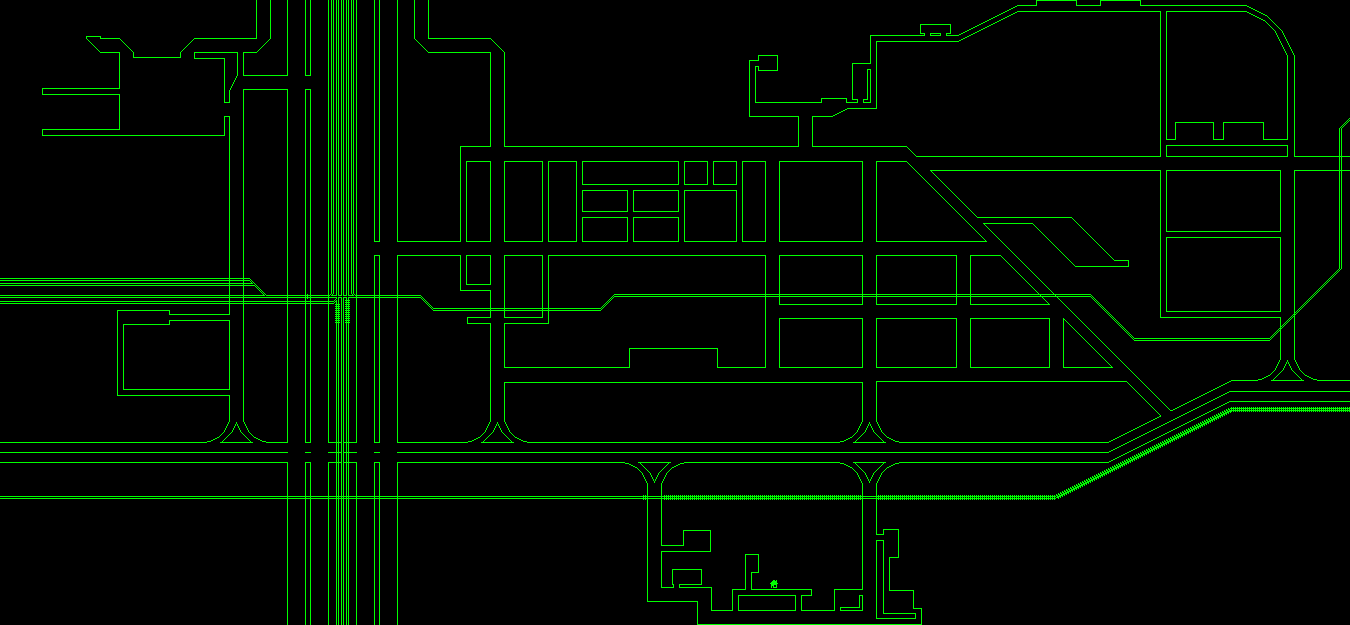
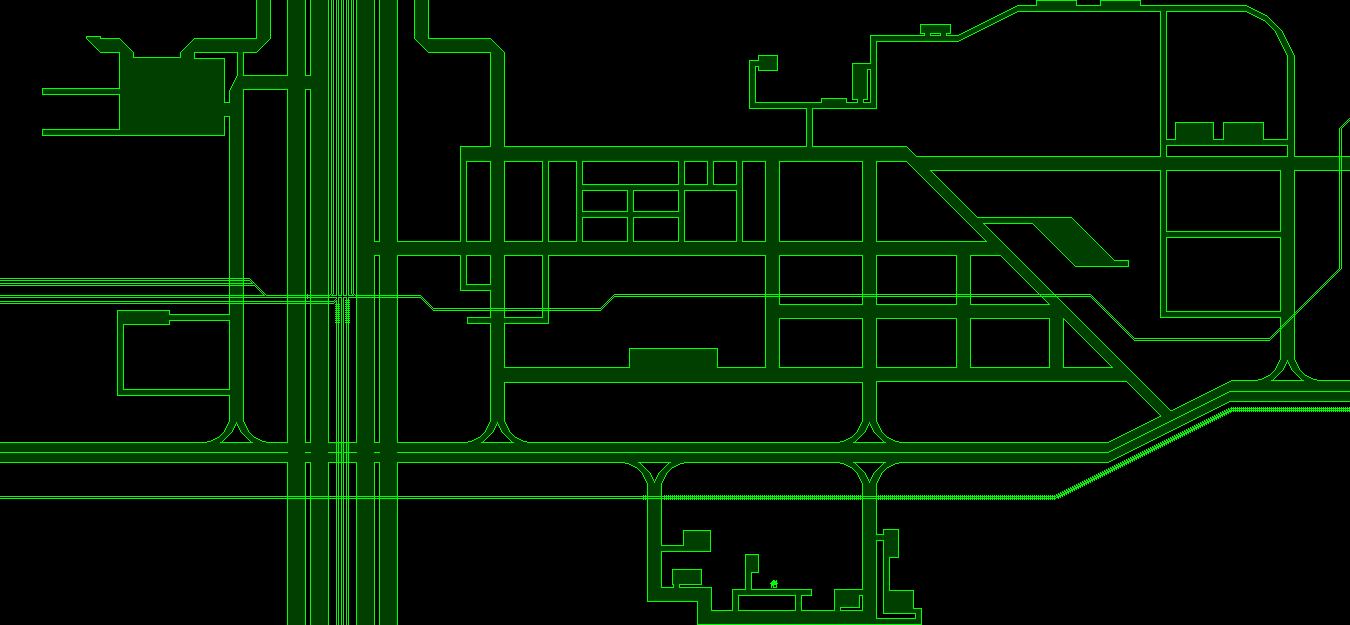
Added Achievements for finding Salt

Changed region(s): [[0.0, 0.0, 1.0, 1.0]]

diff --git a/Assets/Scripts/Utilities/AchievementManager.cs b/Assets/Scripts/Utilities/AchievementManager.cs
@@ -2,7 +2,7 @@
  * FILE     : AchievementManager.cs
  * AUTHOR   : Peter "prfctstrm479" Campbell
  * CREATION : 3/27/26
- * UPDATED  : 3/26/26
+ * UPDATED  : 6/17/26
  * 
  * DESC     : Tracks and awards Steam Achievements
 =================================================================================================*/
@@ -27,7 +27,6 @@ public class AchievementManager : MonoBehaviour
     void Start()
     {
         SteamUserStats.StoreStats();
-        Debug.Log("Achievement: " + SteamUserStats.GetAchievement("ACH_FIRST_SNAIL", out Check_It));
     }
 
     // Update is called once per frame
@@ -43,7 +42,8 @@ public class AchievementManager : MonoBehaviour
     /// <summary>
     /// Checks whether a steam achievement has been awarded, and if not unlocks it
     /// </summary>
-    /// <param name="achName">Name of the achievement to award</param>
+    /// <param name="achName">Name of the achievement to award. Shoul use the API Name listed in
+    /// Steamworks</param>
     public static void AwardAchievement(string achName)
     {
         bool _achieved;
@@ -64,10 +64,6 @@ public class AchievementManager : MonoBehaviour
 
         SteamUserStats.StoreStats();
     }
-
-    #endregion
-
-    #region DEBUG
 
     #endregion
 }

diff --git a/Assets/Scripts/Cutscenes/CutsceneEvents/AwardEventAchievement.cs b/Assets/Scripts/Cutscenes/CutsceneEvents/AwardEventAchievement.cs
@@ -1,0 +1,37 @@
+/*=================================================================================================
+ * FILE     : AwardEventAchievement.cs
+ * AUTHOR   : Peter "prfctstrm479" Campbell
+ * CREATION : 6/17/26
+ * UPDATED  : 6/17/26
+ * 
+ * DESC     : Awards an achievement as part of an event. CUrrently only supports steam, but can be
+ *            modified to support other external achievement systems.
+=================================================================================================*/
+using System.Collections;
+using System.Collections.Generic;
+using UnityEngine;
+
+[CreateAssetMenu(fileName = "SteamAchievement", menuName = "Cutscene/Achievement", order = 10)]
+public class AwardEventAchievement : CutsceneEvent
+{
+    #region VARIABLES
+
+    [SerializeField] string achName;
+
+    #endregion
+
+    #region EVENT FUNCTIONALITY
+
+    /// <summary>
+    /// Awards achievement for appropriate interface
+    /// </summary>
+    public override void PlayEventFunction()
+    {
+        base.PlayEventFunction();
+
+        AchievementManager.AwardAchievement(achName);
+        eventComplete = true;
+    }
+
+    #endregion
+}

diff --git a/Assets/Scripts/Cutscenes/CutsceneManager.cs b/Assets/Scripts/Cutscenes/CutsceneManager.cs
@@ -2,7 +2,7 @@
  * FILE     : CutsceneManager.cs
  * AUTHOR   : Peter "prfctstrm479" Campbell
  * CREATION : 1X/X/24
- * UPDATED  : 4/17/26
+ * UPDATED  : 6/17/26
  * 
  * DESC     : Controls the progression of scripted events.
 =================================================================================================*/
@@ -196,7 +196,8 @@ public class CutsceneManager : MonoBehaviour
                      i.GetType() == typeof(PauseTimer) || i.GetType() == typeof(ResumeTimer) ||
                      i.GetType() == typeof(StopTimer) || i.GetType() == typeof(SaveEvent) ||
                      i.GetType() == typeof(ResetCollectibles) ||
-                     i.GetType() == typeof(AlterCollectibleCount))
+                     i.GetType() == typeof(AlterCollectibleCount) ||
+                     i.GetType() == typeof(AwardEventAchievement))
             {
                 i.PlayEventFunction();
 

diff --git a/Assets/Scripts/Menus/Submenus/Map/MapMovement.cs b/Assets/Scripts/Menus/Submenus/Map/MapMovement.cs
@@ -2,7 +2,7 @@
  * FILE     : MapMovement.cs
  * AUTHOR   : Peter "prfctstrm479" Campbell
  * CREATION : 12/1/25
- * UPDATED  : 6/15/26
+ * UPDATED  : 6/17/26
  * 
  * DESC     : Allows the player to move the map within specified constraints
 =================================================================================================*/
@@ -54,8 +54,6 @@ public class MapMovement : MonoBehaviour
         // Sets maximum constraints for movements
         _maxX = -(int)_rectTransform.rect.width + 384 - 4;
         _maxY = (int)_rectTransform.rect.height - 216 + 56;
-        Debug.Log(_maxX);
-        Debug.Log(_maxY);
     }
 
     /// <summary>
